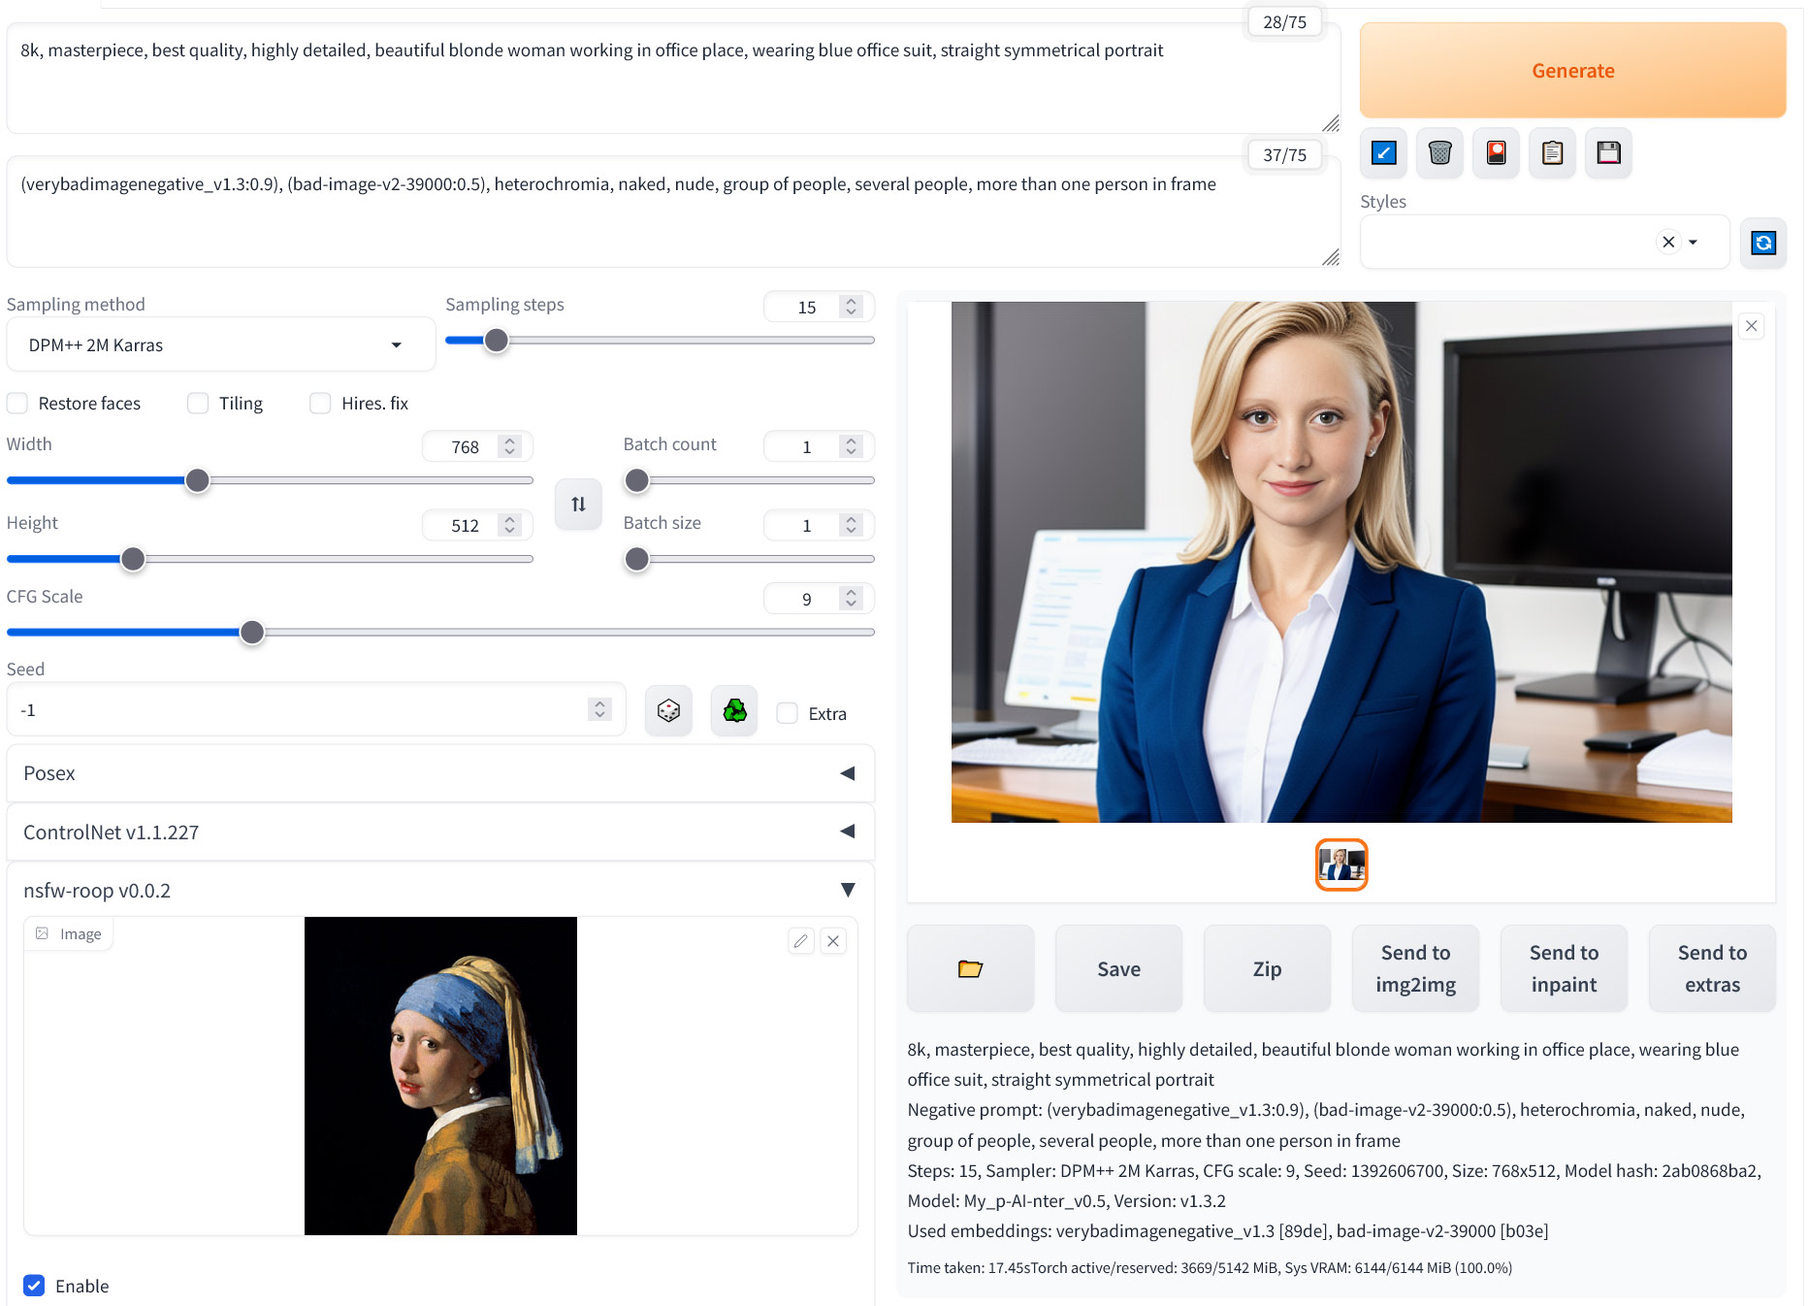
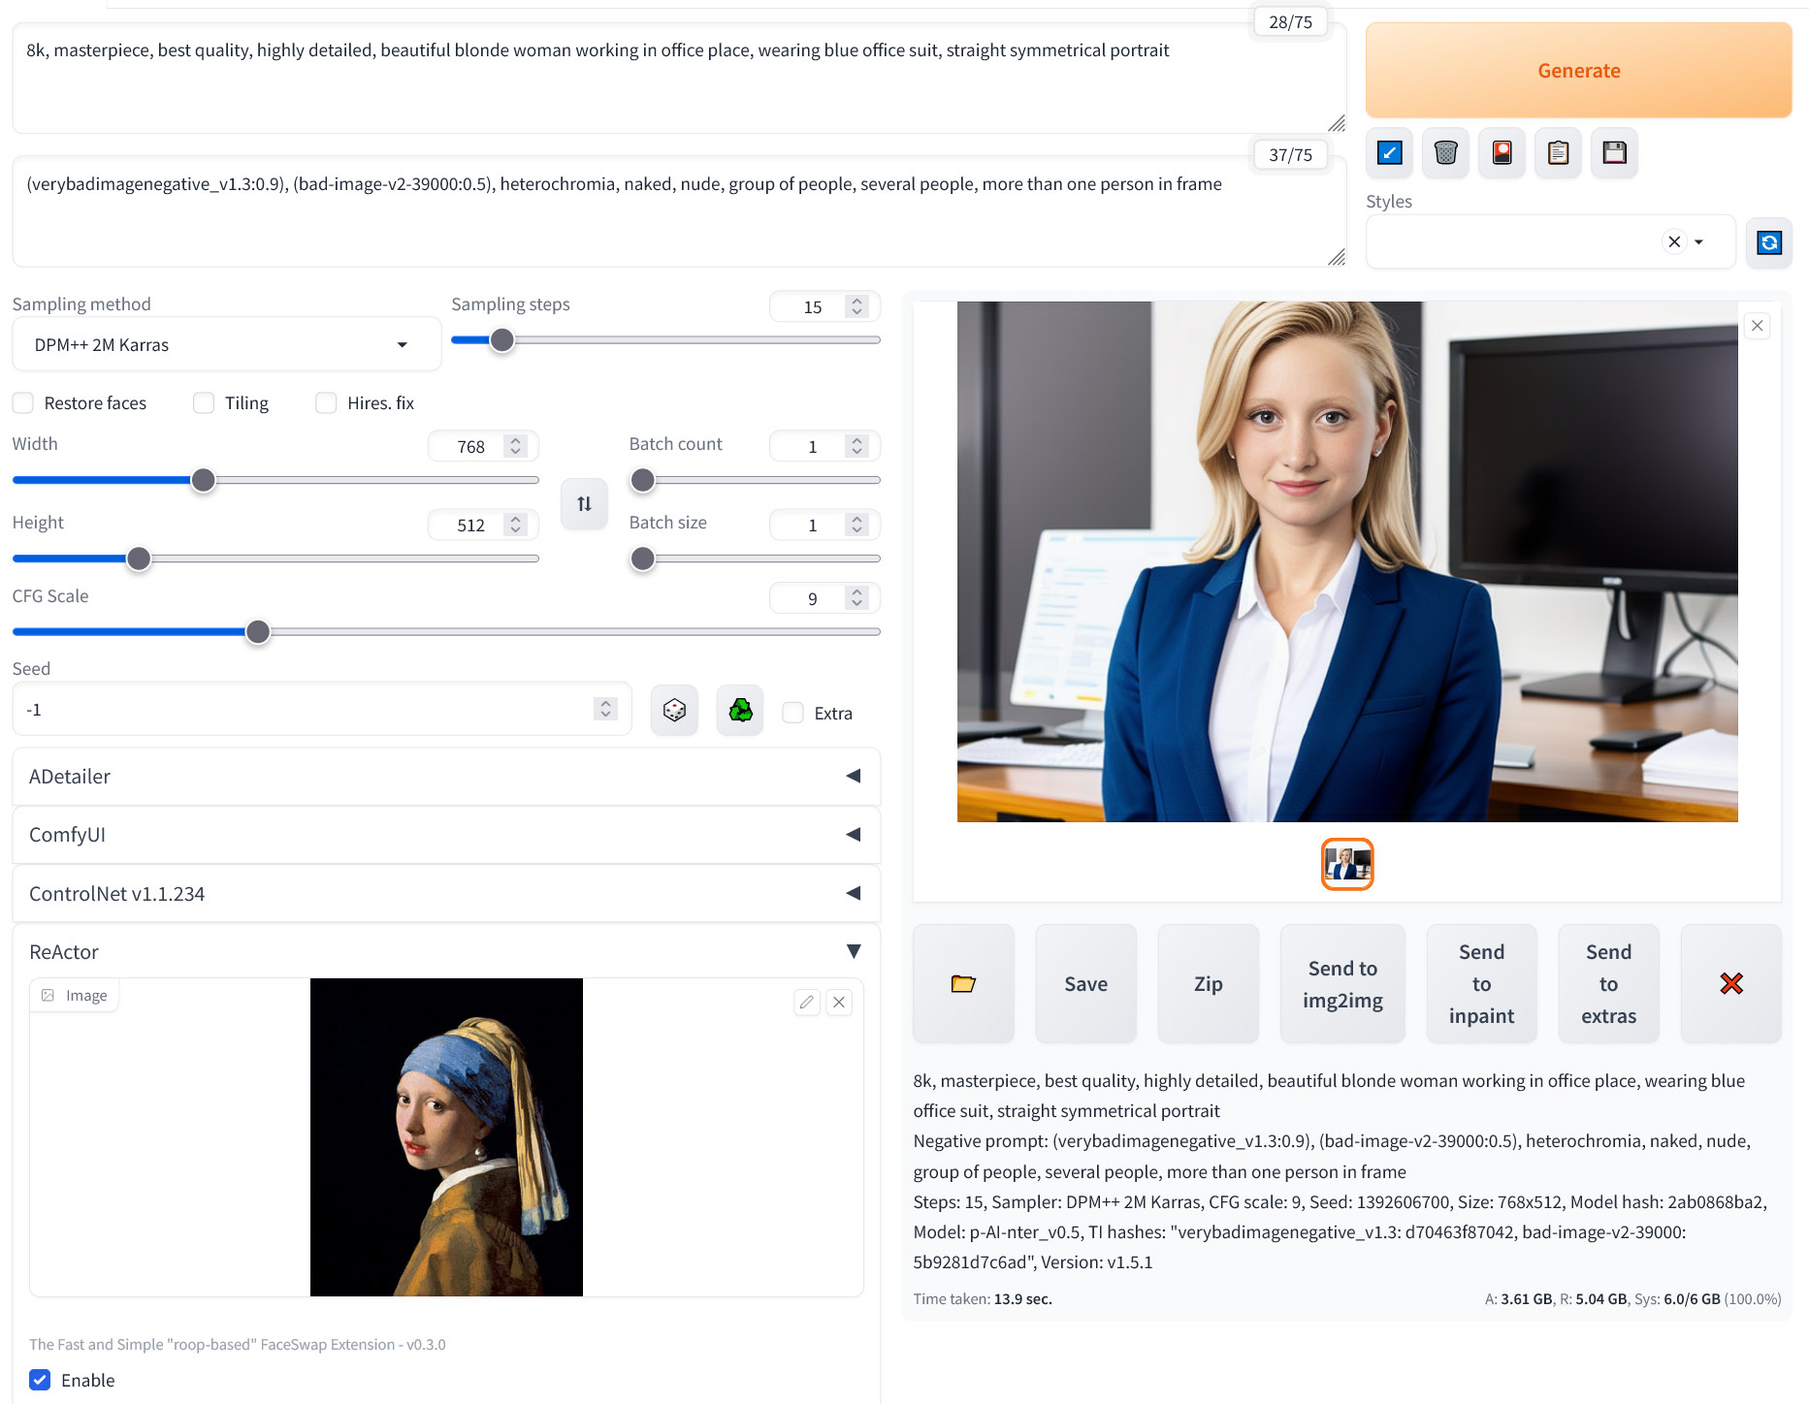
UPDATE: extnsn is renamed to -ReActor-
+ UPDATE: logger, typo. readme, example
+ small FIXes
+ VersionUP

diff --git a/scripts/swapper.py b/scripts/swapper.py
@@ -77,7 +77,7 @@ def upscale_image(image: Image, upscale_options: UpscaleOptions):
     if upscale_options.do_restore_first:
         if upscale_options.face_restorer is not None:
             original_image = result_image.copy()
-            logger.info("Restore face with %s", upscale_options.face_restorer.name())
+            logger.info("Restoring the face with %s", upscale_options.face_restorer.name())
             numpy_image = np.array(result_image)
             numpy_image = upscale_options.face_restorer.restore(numpy_image)
             restored_image = Image.fromarray(numpy_image)
@@ -87,7 +87,7 @@ def upscale_image(image: Image, upscale_options: UpscaleOptions):
         if upscale_options.upscaler is not None and upscale_options.upscaler.name != "None":
             original_image = result_image.copy()
             logger.info(
-                "Upscale with %s scale = %s",
+                "Upscaling with %s scale = %s",
                 upscale_options.upscaler.name,
                 upscale_options.scale,
             )
@@ -102,7 +102,7 @@ def upscale_image(image: Image, upscale_options: UpscaleOptions):
         if upscale_options.upscaler is not None and upscale_options.upscaler.name != "None":
             original_image = result_image.copy()
             logger.info(
-                "Upscale with %s scale = %s",
+                "Upscaling with %s scale = %s",
                 upscale_options.upscaler.name,
                 upscale_options.scale,
             )
@@ -115,7 +115,7 @@ def upscale_image(image: Image, upscale_options: UpscaleOptions):
                 )
         if upscale_options.face_restorer is not None:
             original_image = result_image.copy()
-            logger.info("Restore face with %s", upscale_options.face_restorer.name())
+            logger.info("Restoring the face with %s", upscale_options.face_restorer.name())
             numpy_image = np.array(result_image)
             numpy_image = upscale_options.face_restorer.restore(numpy_image)
             restored_image = Image.fromarray(numpy_image)
@@ -192,7 +192,7 @@ def swap_face(
                     logger.info(f"No source face found for face number {source_face_idx}.")
 
             result_image = Image.fromarray(cv2.cvtColor(result, cv2.COLOR_BGR2RGB))
-            if upscale_options is not None:
+            if upscale_options is not None and target_face is not None:
                 result_image = upscale_image(result_image, upscale_options)
 
         else:

diff --git a/scripts/faceswap.py b/scripts/faceswap.py
@@ -13,7 +13,7 @@ from modules.face_restoration import FaceRestoration
 
 from scripts.logger import logger
 from scripts.swapper import UpscaleOptions, swap_face
-from scripts.version import version_flag
+from scripts.version import version_flag, app_title
 from scripts.console_log_patch import apply_logging_patch
 import os
 
@@ -36,16 +36,16 @@ def get_models():
 
 class FaceSwapScript(scripts.Script):
     def title(self):
-        return f"Roop-GE"
+        return f"{app_title}"
 
     def show(self, is_img2img):
         return scripts.AlwaysVisible
 
     def ui(self, is_img2img):
-        with gr.Accordion(f"Roop-GE {version_flag}", open=False):
+        with gr.Accordion(f"{app_title} (ex Roop-GE)", open=False):
             with gr.Column():
                 img = gr.inputs.Image(type="pil")
-                enable = gr.Checkbox(False, label="Enable", info="The Extension will be renamed to a cool new name in a future update! Stay tuned!")
+                enable = gr.Checkbox(False, label="Enable", info=f"The Fast and Simple \"roop-based\" FaceSwap Extension - {version_flag}")
                 with gr.Row():
                     source_faces_index = gr.Textbox(
                         value="0",
@@ -201,10 +201,10 @@ class FaceSwapScript(scripts.Script):
             if self.source is not None:
                 apply_logging_patch(console_logging_level)
                 if isinstance(p, StableDiffusionProcessingImg2Img) and swap_in_source:
-                    logger.info(f"Roop-GE is enabled, face index %s", self.faces_index)
+                    logger.info(f"Working: source face index %s, target face index %s", self.source_faces_index, self.faces_index)
 
                     for i in range(len(p.init_images)):
-                        logger.info(f"Swap in source %s", i)
+                        logger.info(f"Swap in %s", i)
                         result = swap_face(
                             self.source,
                             p.init_images[i],
@@ -224,6 +224,7 @@ class FaceSwapScript(scripts.Script):
     def postprocess_image(self, p, script_pp: scripts.PostprocessImageArgs, *args):
         if self.enable and self.swap_in_generated:
             if self.source is not None:
+                logger.info(f"Working: source face index %s, target face index %s", self.source_faces_index, self.faces_index)
                 image: Image.Image = script_pp.image
                 result = swap_face(
                     self.source,

diff --git a/example/api_example.py b/example/api_example.py
@@ -20,17 +20,17 @@ img_bytes = io.BytesIO()
 im.save(img_bytes, format='PNG') 
 img_base64 = base64.b64encode(img_bytes.getvalue()).decode('utf-8')
 
-# Roop-GE arguments:
+# ReActor arguments:
 args=[
     img_base64, #0
-    True, #1 Enable Roop-GE
+    True, #1 Enable ReActor
     '0', #2 Comma separated face number(s) from swap-source image
     '0', #3 Comma separated face number(s) for target image (result)
     'C:\stable-diffusion-webui\models/roop\inswapper_128.onnx', #4 model path
     'CodeFormer', #4 Restore Face: None; CodeFormer; GFPGAN
     1, #5 Restore visibility value
     True, #7 Restore face -> Upscale
-    '4x_NMKD-Superscale-SP_178000_G', #8 Upscaler (type 'None' if doesn't need), see full list here: http://127.0.0.1:7860/sdapi/v1/script-info -> roop-ge -> sec.8
+    '4x_NMKD-Superscale-SP_178000_G', #8 Upscaler (type 'None' if doesn't need), see full list here: http://127.0.0.1:7860/sdapi/v1/script-info -> reactor -> sec.8
     2, #9 Upscaler scale value
     1, #10 Upscaler visibility (if scale = 1)
     False, #11 Swap in source image
@@ -38,7 +38,7 @@ args=[
     1, #13 Console Log Level (0 - min, 1 - med or 2 - max)
 ]
 
-# The args for roop-ge can be found by 
+# The args for ReActor can be found by 
 # requests.get(url=f'{address}/sdapi/v1/script-info')
 
 prompt = "(8k, best quality, masterpiece, highly detailed:1.1),realistic photo of fantastic happy woman,hairstyle of blonde and red short bob hair,modern clothing,cinematic lightning,film grain,dynamic pose,bokeh,dof"
@@ -55,7 +55,7 @@ payload = {
     "width": 512,
     "height": 768,
     "restore_faces": False,
-    "alwayson_scripts": {"roop-ge":{"args":args}}
+    "alwayson_scripts": {"reactor":{"args":args}}
 }
 
 try:

diff --git a/scripts/logger.py b/scripts/logger.py
@@ -3,11 +3,13 @@ import copy
 import sys
 
 from modules import shared
+from scripts.globals import IS_RUN
 
 
 class ColoredFormatter(logging.Formatter):
     COLORS = {
         "DEBUG": "\033[0;36m",  # CYAN
+        "STATUS": "\033[38;5;137m",  # Calm ORANGE
         "INFO": "\033[0;32m",  # GREEN
         "WARNING": "\033[0;33m",  # YELLOW
         "ERROR": "\033[0;31m",  # RED
@@ -24,18 +26,29 @@ class ColoredFormatter(logging.Formatter):
 
 
 # Create a new logger
-logger = logging.getLogger("Roop-GE")
+logger = logging.getLogger("ReActor")
 logger.propagate = False
+
+# Custom Level name
+logging.addLevelName(logging.INFO, "STATUS")
 
 # Add handler if we don't have one.
 if not logger.handlers:
     handler = logging.StreamHandler(sys.stdout)
     handler.setFormatter(
-        ColoredFormatter("%(asctime)s - %(name)s - %(levelname)s - %(message)s")
+        ColoredFormatter("%(asctime)s - %(name)s - %(levelname)s - %(message)s","%H:%M:%S")
     )
     logger.addHandler(handler)
 
 # Configure logger
-loglevel_string = getattr(shared.cmd_opts, "roop_loglevel", "INFO")
+loglevel_string = getattr(shared.cmd_opts, "reactor_loglevel", "INFO")
 loglevel = getattr(logging, loglevel_string.upper(), "info")
 logger.setLevel(loglevel)
+
+def set_Run(value):
+    global IS_RUN
+    IS_RUN = value
+
+def get_Run():
+    global IS_RUN
+    return IS_RUN

diff --git a/install.py b/install.py
@@ -35,7 +35,7 @@ def is_installed (
 def download(url, path):
     request = urllib.request.urlopen(url)
     total = int(request.headers.get('Content-Length', 0))
-    with tqdm(total=total, desc='Downloading', unit='B', unit_scale=True, unit_divisor=1024) as progress:
+    with tqdm(total=total, desc='Downloading...', unit='B', unit_scale=True, unit_divisor=1024) as progress:
         urllib.request.urlretrieve(url, path, reporthook=lambda count, block_size, total_size: progress.update(block_size))
 
 if not os.path.exists(models_dir):
@@ -44,7 +44,7 @@ if not os.path.exists(models_dir):
 if not os.path.exists(model_path):
     download(model_url, model_path)
 
-print("Checking Roop-GE requirements...")
+print("Checking ReActor (ex Roop-GE) requirements...", end=' ')
 with open(req_file) as file:
     install_count = 0
     for package in file:
@@ -58,9 +58,9 @@ with open(req_file) as file:
                 run_pip(package)
         except Exception as e:
             print(e)
-            print(f"Warning: Failed to install {package}, Roop-GE will not work.")
+            print(f"\nERROR: Failed to install {package} - ReActor won't start")
             raise e
     if install_count > 0:
         print(f'\n--- PLEASE, RESTART the Server! ---\n')
     else:
-        print('Done!')
+        print('Ok')

diff --git a/scripts/version.py b/scripts/version.py
@@ -1,5 +1,10 @@
-version_flag = "v0.2.4b"
+app_title = "ReActor"
+version_flag = "v0.3.0"
 
-from scripts.logger import logger
+from scripts.logger import logger, get_Run, set_Run
 
-logger.info(f"Roop-GE {version_flag}")
+is_run = get_Run()
+
+if not is_run:
+    logger.info(f"Running {version_flag}")
+    set_Run(True)

diff --git a/scripts/globals.py b/scripts/globals.py
@@ -1,0 +1,1 @@
+IS_RUN: bool = False

diff --git a/README.md b/README.md
@@ -1,10 +1,10 @@
-# Roop-GE* 0.2.4b for StableDiffusion
-### NSFW (uncensored) version (use it on your own responsibility) of [original sd-webui-roop](https://github.com/s0md3v/sd-webui-roop) with a lot of improvements
+# ReActor 0.3.0 for StableDiffusion
+### The Fast and Simple "[roop-based](https://github.com/s0md3v/sd-webui-roop)" FaceSwap Extension with a lot of improvements and without NSFW filter (uncensored, use it on your own responsibility) 
 
-> *Will be renamed soon! Stay tuned! (GE - Gourieff Edition, aka "NSFW-Roop")
+> Ex "Roop-GE" (GE - Gourieff Edition, aka "NSFW-Roop"), the extension was renamed with the version 0.3.0
 
 ---
-[**Disclaimer**](#disclaimer) | [**Installation**](#installation) | [**Usage**](#usage) | [**Troubleshooting**](#troubleshooting) | [**Updating**](#updating)
+[**Disclaimer**](#disclaimer) | [**Installation**](#installation) | [**Usage**](#usage) | [**Troubleshooting**](#troubleshooting) | [**Updating**](#updating) | [**ComfyUI**](#comfyui)
 
 ---
 
@@ -35,8 +35,8 @@ Users of this software are expected to use this software responsibly while abidi
 2. In web-ui, go to the "Extensions" tab and use this URL `https://github.com/Gourieff/sd-webui-roop-nsfw` in the "Install from URL" tab and click "Install"
 3. Please, wait for several minutes until the installation process will be finished
 4. Check the last message in your SD-WebUI Console:
-* If you see the message "--- PLEASE, RESTART the Server! ---" - so, do it, stop the Server (CTRL+C) and start it again. 
-* If you see the message "Done!", just go to the "Installed" tab (*if you have any other Roop extension enabled - disable it, otherwise this extension won't work*), click "Apply and restart UI"
+* If you see the message "--- PLEASE, RESTART the Server! ---" - so, do it, stop the Server (CTRL+C or CMD+C) and start it again - or just go to the "Installed" tab (*if you have any other Roop-based extension enabled - disable it, otherwise this extension won't work*), click "Apply and restart UI" 
+* If you see the message "Done!", just go to the "Installed" tab (*if you have any other Roop-based extension enabled - disable it, otherwise this extension won't work*), click "Apply and restart UI" - or you can just simply reload the UI
 5. Enjoy!
 
 <a name="sdnext">If you use [SD.Next](https://github.com/vladmandic/automatic):
@@ -47,28 +47,29 @@ Users of this software are expected to use this software responsibly while abidi
 4. Run SD.Next, go to the "Extensions" tab and use this URL `https://github.com/Gourieff/sd-webui-roop-nsfw` in the "Install from URL" tab and click "Install"
 5. Please, wait for several minutes until the installation process will be finished
 6. Check the last message in your SD.Next Console:
-* If you see the message "--- PLEASE, RESTART the Server! ---" - so, do it, stop the Server (CTRL+C) and start it again.
-* If you see the message "Done!", just go to the "Installed" tab (*if you have any other Roop extension enabled - disable it, otherwise this extension won't work*), click "Restart the UI"
+* If you see the message "--- PLEASE, RESTART the Server! ---" - so, do it, stop the Server (CTRL+C or CMD+C) and start it again - or just go to the "Installed" tab (*if you have any other Roop-based extension enabled - disable it, otherwise this extension won't work*), click "Restart the UI"
 7. Stop SD.Next, go to the `automatic\extensions\sd-webui-roop-nsfw` directory - if you see there `models\roop` folder with the file `inswapper_128.onnx`, just move the file to the `automatic\models\roop` folder
 8. Run your SD.Next WebUI and enjoy!
 
 <a name="colab">If you use [Cagliostro Colab UI](https://github.com/Linaqruf/sd-notebook-collection):
 
-1. In active web-ui, go to the "Extensions" tab and use this URL `https://github.com/Gourieff/sd-webui-roop-nsfw` in the "Install from URL" tab and click "Install"
+1. In active WebUI, go to the "Extensions" tab and use this URL `https://github.com/Gourieff/sd-webui-roop-nsfw` in the "Install from URL" tab and click "Install"
 2. Please, wait for several minutes until the installation process will be finished
-3. When you see the message "--- PLEASE, RESTART the Server! ---" in your Colab Notebook Start UI section ("Start Cagliostro Colab UI") - just go to the "Installed" tab and click "Apply and restart UI" (*if you have any other Roop extension enabled - disable it before restart, otherwise this extension won't work*)
+3. When you see the message "--- PLEASE, RESTART the Server! ---" (in your Colab Notebook Start UI section "Start Cagliostro Colab UI") - just go to the "Installed" tab and click "Apply and restart UI" (*if you have any other Roop-based extension enabled - disable it before restart, otherwise this extension won't work*)
 4. Enjoy!
 
 ## Usage
 
-1. Under "Roop-GE" drop-down menu, import an image containing a face;
+1. Under "ReActor" drop-down menu, import an image containing a face;
 2. Turn on the "Enable" checkbox;
 3. That's it, now the generated result will have the face you selected.
 
-**You can use Roop-GE with Webui API:**
+<img src="example/example.jpg" alt="example"/>
+
+**You can use ReActor with Webui API:**
 1. Check the [SD Web API Wiki](https://github.com/AUTOMATIC1111/stable-diffusion-webui/wiki/API) for how to use API;
-2. Call `requests.get(url=f'{address}/sdapi/v1/script-info')` to find the args that Roop-GE needs;
-3. Define Roop-GE script args and add like this `"alwayson_scripts": {"roop-ge":{"args":args}}` in the payload;
+2. Call `requests.get(url=f'{address}/sdapi/v1/script-info')` to find the args that ReActor needs;
+3. Define ReActor script args and add like this `"alwayson_scripts": {"reactor":{"args":args}}` in the payload;
 4. Call the API, there's an [full usage example](./example/api_example.py) in example folder.
 
 ### The result face is blurry
@@ -116,12 +117,12 @@ Please, check the path where "inswapper_128.onnx" model is stored. It must be in
    - `pip install onnxruntime==1.15.0`
    - `pip install opencv-python==4.7.0.72`
    - `pip install tqdm`
-7. Type `deactivate`, you can close your Terminal or Console and start your sd-webui, Roop should start OK - if not, welcome to Issues section.
+7. Type `deactivate`, you can close your Terminal or Console and start your sd-webui, ReActor should start OK - if not, welcome to Issues section.
 
 **III. "TypeError: UpscaleOptions.init() got an unexpected keyword argument 'do_restore_first'"**
 
-First of all - you need to disable any other Roop extensions:
-- Go to 'Extensions -> Installed' tab and uncheck any Roop except this one
+First of all - you need to disable any other Roop-based extensions:
+- Go to 'Extensions -> Installed' tab and uncheck any Roop-based extensions except this one
   <img src="example/roop-off.png" alt="uncompatible-with-other-roop"/>
 - Click 'Apply and restart UI'
 
@@ -140,8 +141,8 @@ and put it to the `stable-diffusion-webui\models\roop` replacing existing one
 
 **VI. "ValueError: This ORT build has ['TensorrtExecutionProvider', 'CUDAExecutionProvider', 'CPUExecutionProvider'] enabled"**
 
-1. Go to the `G:\stable-diffusion-webui\venv\lib\site-packages` and see if there are any folders with names start from "~" (for example "~rotobuf"), delete them
-2. Go to the `G:\stable-diffusion-webui\venv\Scripts` run CMD there and type `activate` in your Console
+1. Go to the `stable-diffusion-webui\venv\lib\site-packages` and see if there are any folders with names start from "~" (for example "~rotobuf"), delete them
+2. Go to the `stable-diffusion-webui\venv\Scripts` run CMD there and type `activate` in your Console
 3. Then:
 - `python -m pip install -U pip`
 - `pip uninstall -y onnx onnxruntime onnxruntime-gpu onnxruntime-silicon`
@@ -149,14 +150,14 @@ and put it to the `stable-diffusion-webui\models\roop` replacing existing one
 
 **VII. "ImportError: cannot import name 'builder' from 'google.protobuf.internal'"**
 
-1. Go to the `G:\stable-diffusion-webui\venv\lib\site-packages` and see if there are any folders with names start from "~" (for example "~rotobuf"), delete them
-2. Go to the `G:\stable-diffusion-webui\venv\Scripts` run CMD there and type `activate` in your Console
+1. Go to the `stable-diffusion-webui\venv\lib\site-packages` and see if there are any folders with names start from "~" (for example "~rotobuf"), delete them
+2. Go to the `stable-diffusion-webui\venv\Scripts` run CMD there and type `activate` in your Console
 3. Then:
 - `python -m pip install -U pip`
 - `pip uninstall protobuf`
 - `pip install protobuf==3.20.3`
 
-If this method doesn't help - there is some other extension that has a higher version of protobuf dependence and sd-webui installs it on startup requirements check
+If this method doesn't help - there is some other extension that has a higher version of protobuf dependence and SD WebUI installs it on startup requirements check
 
 <a name="insightfacebuild">**VIII. (For Windows users) If you still cannot build Insightface for some reasons or just don't want to install Visual Studio or VS C++ Build Tools - do the following:**
 
@@ -169,3 +170,8 @@ If this method doesn't help - there is some other extension that has a higher ve
 ## Updating
 
 A good and quick way to check for Extensions updates: https://github.com/Gourieff/sd-webui-extensions-updater
+
+## ComfyUI
+
+You can use ReActor with ComfyUI
+For the installation instruction follow the [ReActor Node repo](https://github.com/Gourieff/comfyui-reactor-node)
